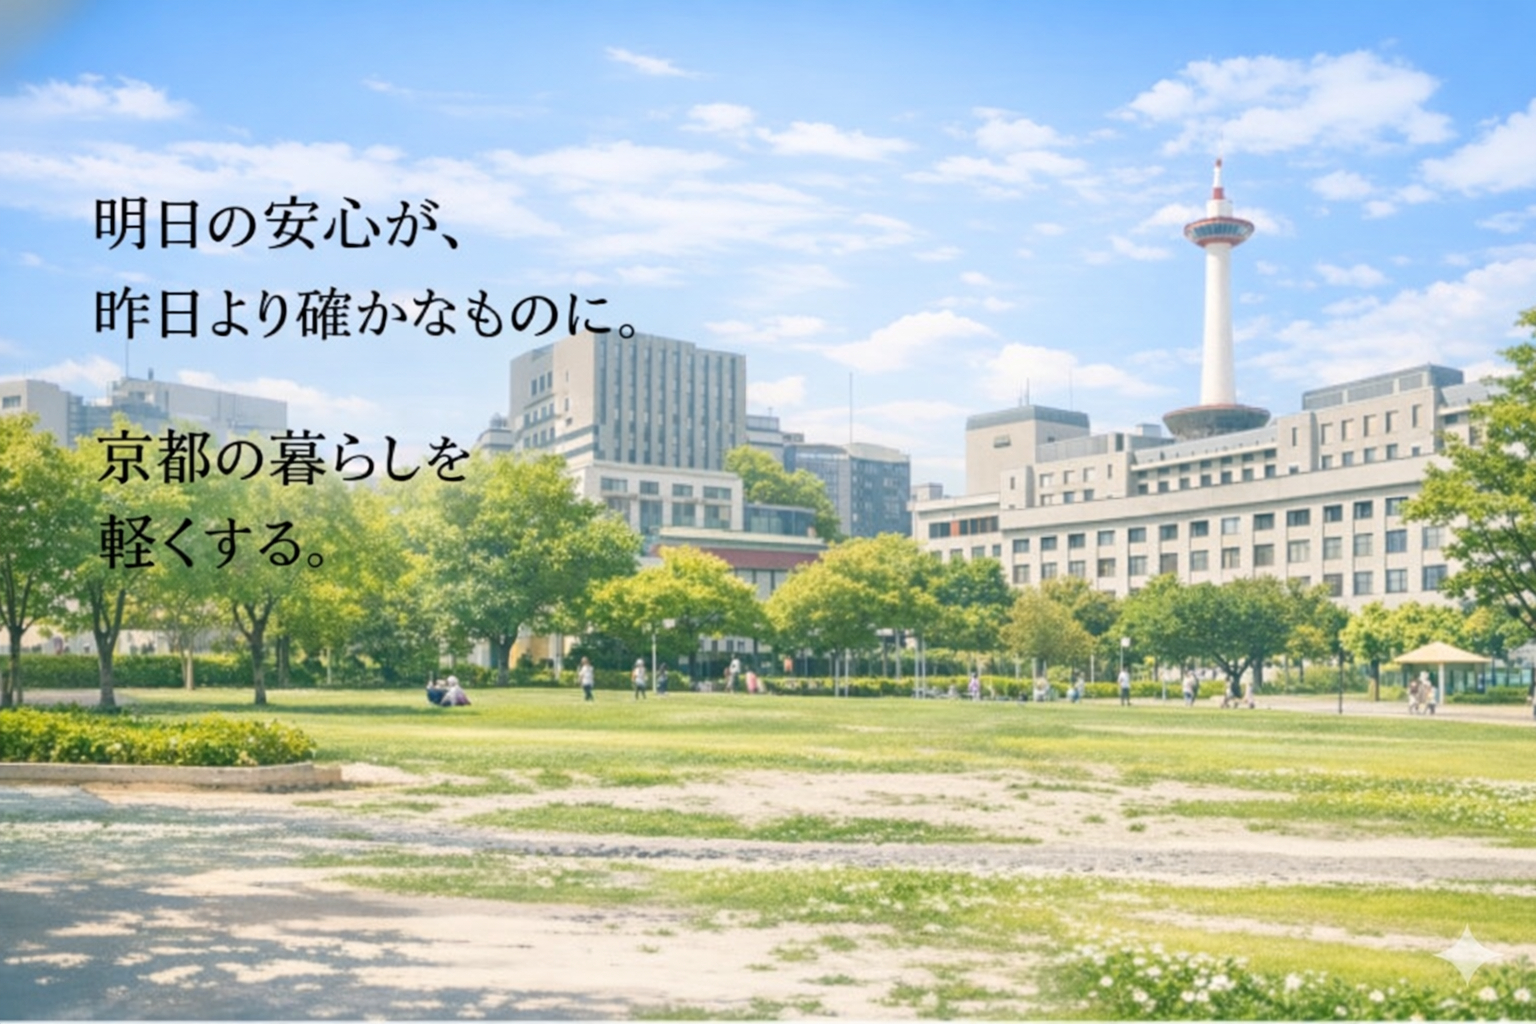
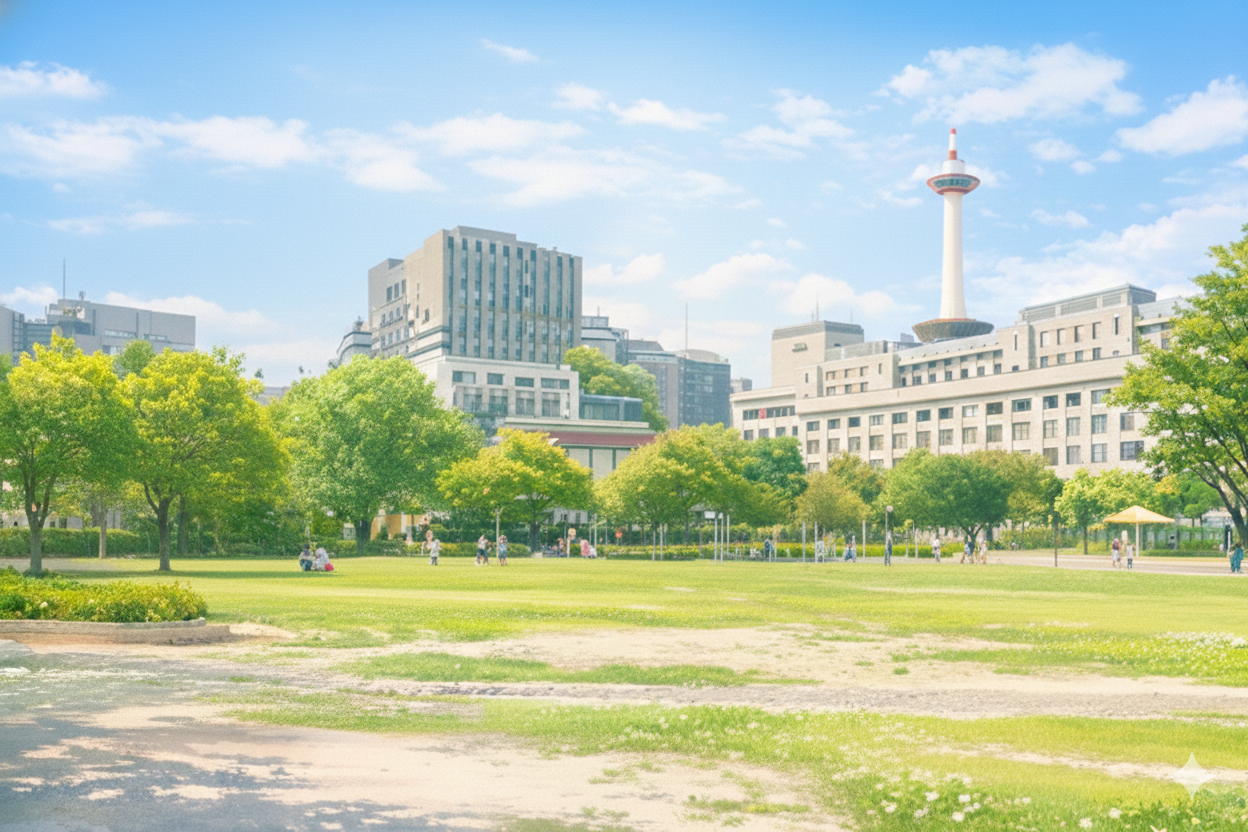
kwb

diff --git a/public/index.html b/public/index.html
@@ -24,9 +24,9 @@
 <main>
   <section class="hero-image">
     <img src="assets/トップページ背景.png" alt="背景">
-    <div class="hero-person-layer-index">
+    <!-- <div class="hero-person-layer-index">
       <img src="assets/トップページ田中しほ.png" alt="田中しほ">
-    </div>
+    </div> -->
   </section>
 
   <section class="consultation-section">
@@ -290,24 +290,52 @@ async function generateThumbnails(pdfs, year) {
   }
 }
 
-/* カルーセル制御 */
+/* カルーセル制御 (ループ対応版) */
 function updateCarouselIndex(key) {
   const section = document.querySelector(`[data-carousel-year="${key}"]`);
   if (!section) return;
   const inner = section.querySelector('.pdf-carousel-inner');
   const items = section.querySelectorAll('.pdf-item');
   const index = carouselIndices[key];
+  
+  // 画面幅に応じて表示数を決定
   const visibleItems = window.innerWidth < 768 ? 1 : (window.innerWidth < 1024 ? 2 : 3);
   const itemWidth = 100 / visibleItems;
   const offset = (visibleItems - 1) / 2;
+  
+  // スライド位置を計算して移動
   inner.style.transform = `translateX(${-(index - offset) * itemWidth}%)`;
+  
+  // アクティブな要素にクラスを付与（CSSで拡大などするため）
   items.forEach((item, i) => item.classList.toggle('center', i === index));
+  
+  // ドットの更新
   const dots = section.querySelectorAll('.dot');
   dots.forEach((dot, i) => dot.classList.toggle('active', i === index));
 }
 
-function handlePrevClickIndex(key) { if (carouselIndices[key] > 0) { carouselIndices[key]--; updateCarouselIndex(key); } }
-function handleNextClickIndex(key) { if (carouselIndices[key] < carouselTotalSlides[key] - 1) { carouselIndices[key]++; updateCarouselIndex(key); } }
+/* 前へ：最初の項目で押すと最後にジャンプ */
+function handlePrevClickIndex(key) { 
+  const total = carouselTotalSlides[key];
+  if (carouselIndices[key] > 0) { 
+    carouselIndices[key]--; 
+  } else {
+    carouselIndices[key] = total - 1; // 0番目なら最後へ
+  }
+  updateCarouselIndex(key); 
+}
+
+/* 次へ：最後の項目で押すと最初へジャンプ */
+function handleNextClickIndex(key) { 
+  const total = carouselTotalSlides[key];
+  if (carouselIndices[key] < total - 1) { 
+    carouselIndices[key]++; 
+  } else {
+    carouselIndices[key] = 0; // 最後なら最初へ
+  }
+  updateCarouselIndex(key); 
+}
+
 function goToSlideIndex(key, index) { carouselIndices[key] = index; updateCarouselIndex(key); }
 
 window.addEventListener('resize', () => Object.keys(carouselIndices).forEach(updateCarouselIndex));

diff --git a/public/profile.html b/public/profile.html
@@ -241,6 +241,6 @@ document.addEventListener('DOMContentLoaded', () => {
 </script>
 
 <script type="module" src="src/header.js"></script>
-<script type="module" src="src/footer.js"></script>
+<!-- <script type="module" src="src/footer.js"></script> -->
 </body>
 </html>
